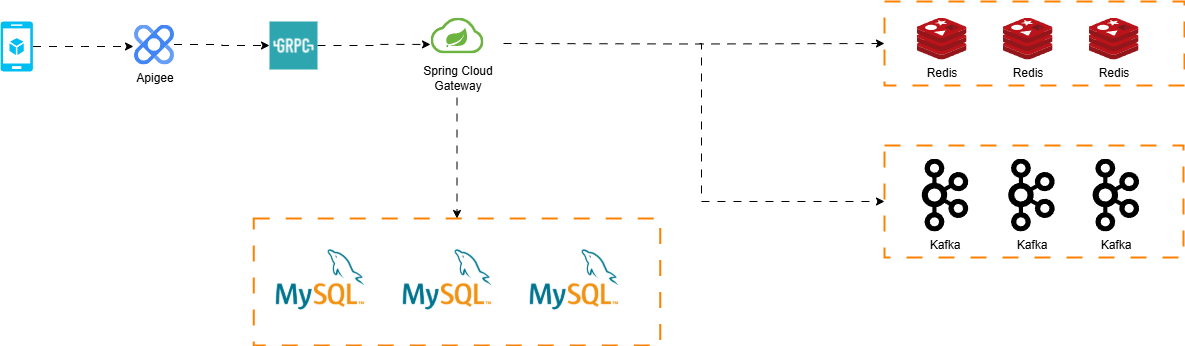
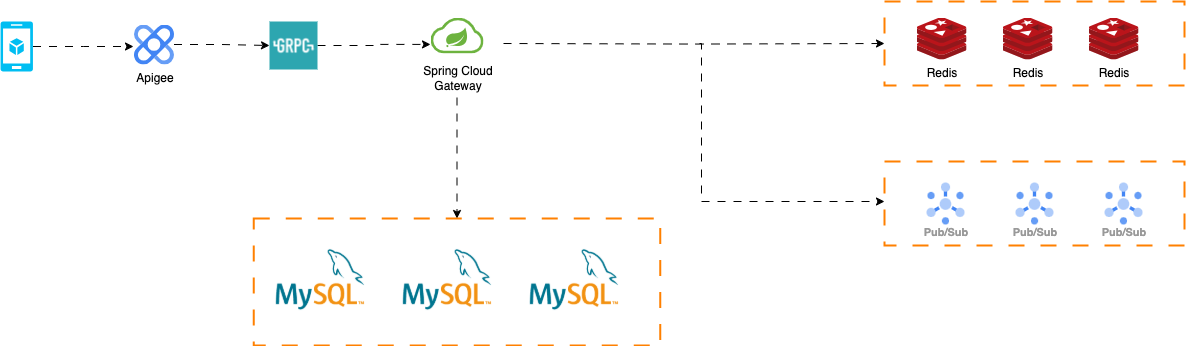
update HL design

diff --git a/Rhino_Bazaar/rhino_auth/src/main/java/org/artists/Main.java b/Rhino_Bazaar/rhino_auth/src/main/java/org/artists/Main.java
@@ -1,0 +1,17 @@
+package org.artists;
+
+//TIP To <b>Run</b> code, press <shortcut actionId="Run"/> or
+// click the <icon src="AllIcons.Actions.Execute"/> icon in the gutter.
+public class Main {
+    public static void main(String[] args) {
+        //TIP Press <shortcut actionId="ShowIntentionActions"/> with your caret at the highlighted text
+        // to see how IntelliJ IDEA suggests fixing it.
+        System.out.printf("Hello and welcome!");
+
+        for (int i = 1; i <= 5; i++) {
+            //TIP Press <shortcut actionId="Debug"/> to start debugging your code. We have set one <icon src="AllIcons.Debugger.Db_set_breakpoint"/> breakpoint
+            // for you, but you can always add more by pressing <shortcut actionId="ToggleLineBreakpoint"/>.
+            System.out.println("i = " + i);
+        }
+    }
+}
